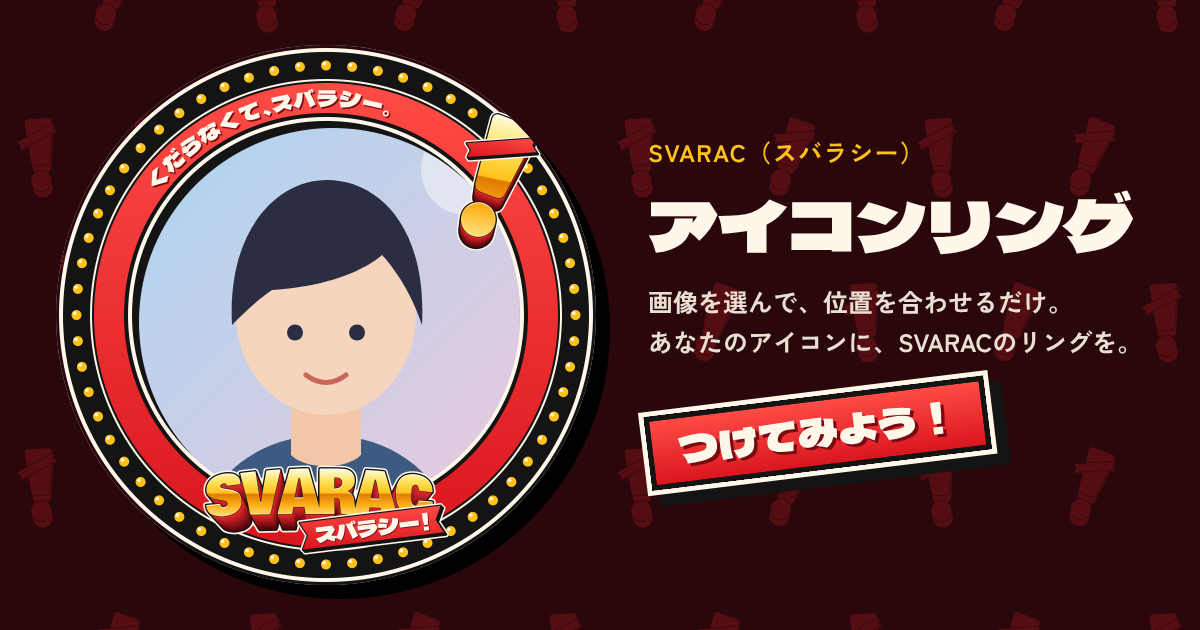
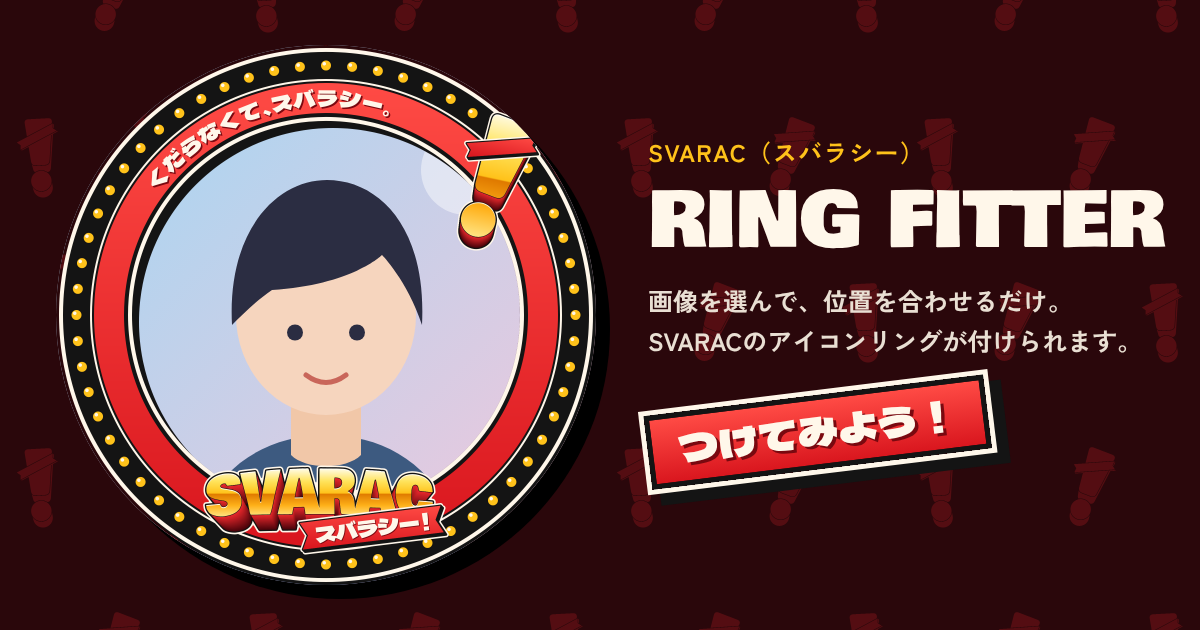
/ring/：見出しを RING FITTER に、端末内だけで加工する旨をリードに、ハッシュタグ欄を削除
Claude-Session: https://claude.ai/code/session_017sCwgt8YKd4HdBJCUHXoym

Changed region(s): [[0.5242, 0.4524, 0.925, 0.7841], [0.5242, 0.3016, 0.9867, 0.4222]]

diff --git a/ring/index.html b/ring/index.html
@@ -3,13 +3,13 @@
 <head>
 <meta charset="utf-8">
 <meta name="viewport" content="width=device-width, initial-scale=1, viewport-fit=cover">
-<title>アイコンリング｜SVARAC（スバラシー）</title>
-<meta name="description" content="あなたのアイコンに、SVARAC（スバラシー）のアイコンリングを。画像を選んで位置を合わせるだけで、リング付きのアイコンが作れます。">
+<title>RING FITTER｜SVARAC（スバラシー）</title>
+<meta name="description" content="SVARAC（スバラシー）のアイコンリングを付けられるページ。画像を選んで位置を合わせるだけで、リング付きのアイコンが作れます。">
 <meta name="theme-color" content="#141414">
 <meta property="og:type" content="website">
 <meta property="og:site_name" content="SVARAC（スバラシー）">
-<meta property="og:title" content="SVARAC アイコンリング｜くだらなくて、スバラシー。">
-<meta property="og:description" content="画像を選んで位置を合わせるだけ。あなたのアイコンに、SVARACのリングを。">
+<meta property="og:title" content="SVARAC RING FITTER｜くだらなくて、スバラシー。">
+<meta property="og:description" content="画像を選んで位置を合わせるだけで、SVARACのアイコンリングが付けられます。">
 <meta property="og:url" content="https://svarac.github.io/ring/">
 <meta property="og:image" content="https://svarac.github.io/ring/img/ogp_ring.png">
 <meta property="og:image:width" content="1200">
@@ -21,14 +21,14 @@
 <link rel="preconnect" href="https://fonts.googleapis.com">
 <link rel="preconnect" href="https://fonts.gstatic.com" crossorigin>
 <link href="https://fonts.googleapis.com/css2?family=Bowlby+One&family=Dela+Gothic+One&family=Noto+Sans+JP:wght@400;700&display=swap" rel="stylesheet">
-<link rel="stylesheet" href="ring.css?v=1">
+<link rel="stylesheet" href="ring.css?v=2">
 </head>
 <body>
 
 <header class="head">
   <a class="head__logo" href="../"><img src="../assets/img/logo_full.svg" alt="SVARAC スバラシー！ トップへ" width="1309" height="507"></a>
-  <h1 class="head__title">アイコンリング</h1>
-  <p class="head__lead"><span class="nw">あなたのアイコンに、</span><span class="nw">SVARACのリングを。</span></p>
+  <h1 class="head__title">RING FITTER</h1>
+  <p class="head__lead"><span class="nw">画像はお使いの端末の中だけで加工され、</span><span class="nw">AIや外部サービスなどに</span><span class="nw">送信・保存されません。</span></p>
 </header>
 
 <main class="main" id="app">
@@ -40,7 +40,6 @@
       <input type="file" id="file" accept="image/*" class="sr">
       <span id="pick-text">画像を選ぶ</span>
     </label>
-    <p class="note">画像はこの端末の中だけで加工され、どこにも送信・保存されません。</p>
     <p class="err" id="err" role="alert" hidden></p>
   </section>
 
@@ -88,9 +87,6 @@
     </div>
   </section>
 
-  <section class="tag">
-    <p>アイコンを変えたら「<b>#スバラシー</b>」でポストしてね</p>
-  </section>
 </main>
 
 <footer class="foot">

diff --git a/ring/ring.css b/ring/ring.css
@@ -29,8 +29,8 @@ a{color:var(--gold-hi);text-underline-offset:3px}
 .head{display:flex;flex-direction:column;align-items:center;gap:var(--s2);padding:var(--s4) 16px var(--s3);text-align:center}
 .head__logo{width:min(56vw,240px)}
 .head__logo img{width:100%;height:auto}
-.head__title{font-family:var(--f-display);font-size:clamp(1.75rem,8vw,2.5rem);line-height:1.2;letter-spacing:.02em}
-.head__lead{font-weight:700;color:var(--muted)}
+.head__title{font-family:var(--f-latin);font-size:clamp(2rem,10vw,3.5rem);line-height:1;letter-spacing:-.01em;white-space:nowrap}
+.head__lead{max-width:30em;font-size:.875rem;line-height:1.8;color:var(--muted)}
 
 /* steps */
 .main{width:100%;max-width:calc(var(--w) + 32px);margin:0 auto;padding:0 16px var(--s4);display:grid;gap:var(--s4)}
@@ -104,9 +104,6 @@ a{color:var(--gold-hi);text-underline-offset:3px}
 .result__btns{width:100%;max-width:360px;display:grid;gap:12px}
 .result__btns .btn{width:100%}
 
-/* hashtag */
-.tag{padding:var(--s3) 16px;text-align:center;border:1px dashed var(--rule);border-radius:12px;font-weight:700}
-.tag b{font-family:var(--f-display);font-weight:400;color:var(--gold);font-size:1.125rem}
 
 .foot{padding:var(--s4) 16px var(--s5);border-top:1px solid var(--rule);display:flex;flex-direction:column;align-items:center;gap:var(--s3);text-align:center}
 .foot__top{min-height:48px;padding:10px 20px}
